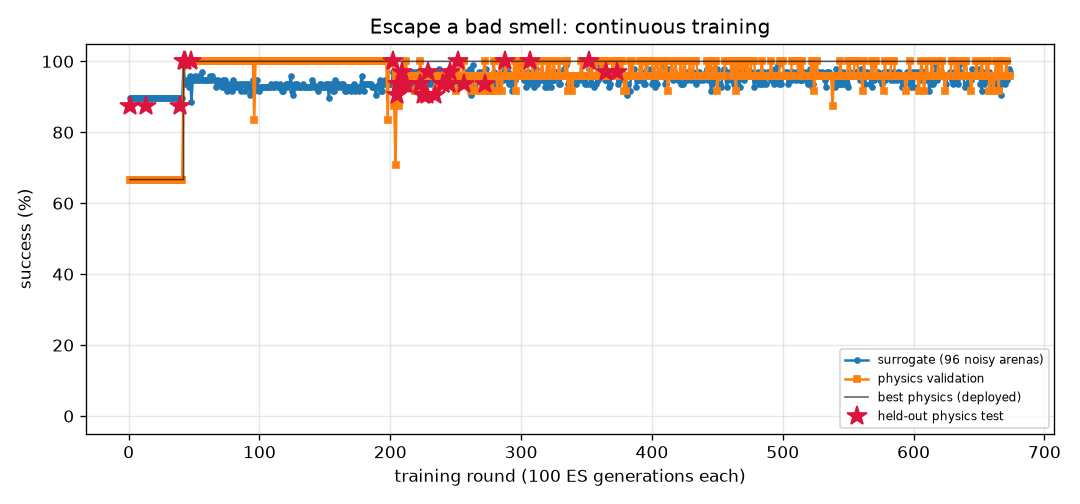
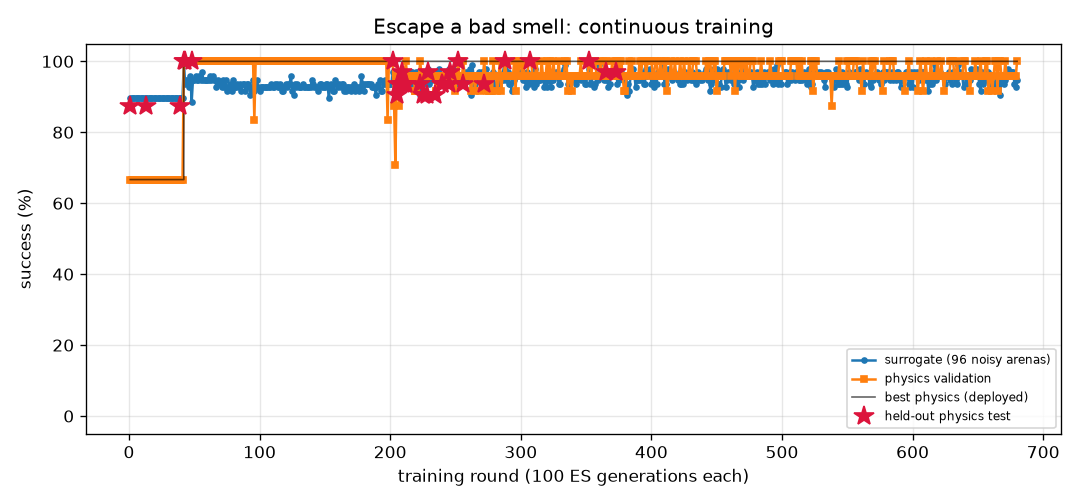
FlyLab: continuous training progress
- walk_forward: optimal, physics val 100% of 24, round 215
- turn: optimal, physics val 100% of 24, round 731
- goto: optimal, physics val 100% of 24, round 182
- odor_seek: optimal, physics val 100% of 24, round 158
- odor_avoid: optimal, physics val 100% of 24, round 680
- light_seek: optimal, physics val 100% of 24, round 376
- light_avoid: optimal, physics val 100% of 24, round 410

diff --git a/projects/09_flylab/training/odor_avoid/REPORT.md b/projects/09_flylab/training/odor_avoid/REPORT.md
@@ -1,14 +1,14 @@
 # Escape a bad smell (`odor_avoid`) — training report
 
-*Auto-generated by `train_brains.py`, last updated 2026-10-27T20:27:28.*
+*Auto-generated by `train_brains.py`, last updated 2026-10-28T20:11:12.*
 
 ![curve](curve.png)
 
 | | |
 |---|---|
-| rounds | 674 |
-| ES generations | 67400 |
-| physics runs | 13482 |
+| rounds | 680 |
+| ES generations | 68000 |
+| physics runs | 13626 |
 | status | **optimal** |
 | best brain | round 373: physics validation **100%** on 24 arenas, surrogate 97% |
 | held-out physics test | **97%** on 32 unseen arenas (95% CI 84%-99%) (errors: [62.0, 57.4, 62.6, 61.9, 59.0, 61.6, 56.5, 60.7, 31.7, 60.9, 63.1, 57.1, 61.1, 62.1, 61.5, 60.2, 62.2, 55.2, 62.1, 54.2, 61.3, 62.0, 58.0, 61.9, 59.8, 56.5, 56.3, 56.4, 56.3, 57.7, 61.9, 32.4]) |
@@ -17,12 +17,6 @@ Physics error per arena: mm gained away from source (> 6 without first approachi
 
 | round | level | gens | sigma | surrogate | physics val | val errors | test | note |
 |---:|---:|---:|---:|---:|---:|---|---:|---|
-| 635 | 3 | 63500 | 0.028 | 99% | 96% | [60.4, 58.6, 56.5, 57.1, 61.0, 61.5, 61.3, 60.5, 61.0, 61.3, 61.4, 61.5, 52.4, 54.0, 17.4, 59.4, 61.4, 60.8, 49.6, 59.2, 61.5, 61.6, 60.3, 61.5] |  |  |
-| 636 | 3 | 63600 | 0.025 | 97% | 96% | [61.5, 55.7, 56.5, 59.9, 61.6, 60.8, 61.6, 44.1, 61.4, 46.4, 53.6, 62.0, 51.4, 56.3, 41.5, 61.6, 62.1, 61.5, 54.3, 55.4, 61.5, 42.4, 59.8, 39.1] |  |  |
-| 637 | 3 | 63700 | 0.026 | 96% | 96% | [61.9, 60.8, 55.8, 60.7, 58.7, 61.7, 61.9, 61.4, 61.9, 61.4, 41.2, 61.5, 49.5, 54.7, 30.4, 58.9, 61.3, 60.7, 50.6, 59.1, 61.3, 61.9, 61.0, 62.5] |  | restart from best |
-| 638 | 3 | 63800 | 0.026 | 96% | 96% | [62.6, 61.5, 55.2, 61.8, 61.6, 61.8, 61.3, 62.4, 61.4, 44.4, 58.1, 61.4, 50.1, 56.2, 29.9, 60.4, 61.2, 59.7, 53.2, 61.1, 61.5, 62.1, 61.5, 63.3] |  |  |
-| 639 | 3 | 63900 | 0.026 | 93% | 100% | [61.8, 57.5, 55.8, 57.3, 38.8, 44.8, 61.0, 38.8, 61.6, 47.4, 26.1, 61.3, 48.6, 55.1, 28.4, 58.9, 60.9, 36.2, 52.7, 59.1, 61.1, 37.9, 59.3, 61.3] |  |  |
-| 640 | 3 | 64000 | 0.028 | 94% | 100% | [61.2, 57.6, 56.1, 57.9, 59.9, 60.1, 60.5, 58.3, 60.5, 38.3, 27.9, 61.0, 50.8, 55.8, 41.7, 57.8, 61.1, 58.9, 52.7, 53.8, 60.8, 57.5, 58.4, 59.6] |  |  |
 | 641 | 3 | 64100 | 0.028 | 94% | 96% | [60.8, 59.8, 55.5, 60.0, 59.7, 60.0, 60.6, 47.2, 61.0, 22.2, 4.4, 60.7, 53.0, 55.7, 29.8, 49.0, 60.9, 60.1, 54.1, 59.8, 60.9, 31.8, 60.2, 59.9] |  | restart from best |
 | 642 | 3 | 64200 | 0.026 | 95% | 96% | [62.9, 58.9, 56.5, 61.0, 61.4, 62.0, 61.2, 57.9, 61.4, 47.4, 61.3, 61.8, 52.3, 56.2, 37.6, 60.0, 62.3, 62.0, 55.2, 56.9, 62.2, 55.1, 59.6, 49.1] |  |  |
 | 643 | 3 | 64300 | 0.027 | 95% | 96% | [62.1, 55.2, 56.4, 57.7, 61.7, 60.3, 61.1, 38.1, 59.4, 57.3, 61.6, 60.8, 54.2, 57.3, 37.5, 61.2, 61.2, 60.5, 54.9, 56.4, 61.1, 59.7, 57.2, 28.9] |  |  |
@@ -57,3 +51,9 @@ Physics error per arena: mm gained away from source (> 6 without first approachi
 | 672 | 3 | 67200 | 0.027 | 96% | 96% | [61.5, 55.5, 56.1, 59.1, 61.5, 61.4, 60.7, 40.2, 61.1, 59.5, 60.7, 61.3, 51.8, 57.3, 41.6, 60.9, 61.3, 59.8, 54.4, 55.8, 60.6, 60.6, 60.8, 51.8] |  |  |
 | 673 | 3 | 67300 | 0.026 | 98% | 96% | [62.2, 57.7, 55.8, 57.6, 61.5, 62.1, 61.3, 55.7, 60.6, 56.1, 61.7, 62.2, 54.6, 55.6, 41.6, 61.1, 61.6, 61.7, 55.4, 58.9, 61.7, 60.5, 55.3, 58.7] |  | restart from best |
 | 674 | 3 | 67400 | 0.026 | 97% | 96% | [61.4, 59.5, 55.6, 59.5, 61.6, 37.0, 62.0, 13.6, 61.9, 47.5, 60.8, 61.9, 54.4, 56.3, 43.3, 61.2, 61.5, 61.5, 54.5, 56.2, 62.0, 25.6, 59.4, 52.2] |  |  |
+| 675 | 3 | 67500 | 0.026 | 97% | 96% | [60.3, 58.2, 55.9, 59.5, 60.8, 28.7, 61.1, 2.8, 60.8, 26.5, 34.1, 60.6, 51.9, 56.5, 40.0, 25.2, 61.2, 48.3, 53.7, 58.9, 61.2, 11.8, 59.9, 22.1] |  |  |
+| 676 | 3 | 67600 | 0.026 | 97% | 96% | [61.4, 60.2, 56.0, 60.4, 62.1, 62.2, 61.8, 56.7, 61.6, 61.6, 61.4, 61.3, 54.2, 55.4, 41.6, 60.8, 61.6, 60.2, 54.9, 59.4, 62.0, 62.2, 59.8, 50.7] |  |  |
+| 677 | 3 | 67700 | 0.026 | 97% | 96% | [58.7, 54.8, 53.9, 54.1, 59.6, 59.1, 57.7, 55.2, 56.9, 56.5, 57.9, 58.8, 48.9, 53.6, 42.6, 57.4, 59.3, 55.9, 51.6, 51.6, 59.0, 56.9, 54.2, 56.6] |  | restart from best |
+| 678 | 3 | 67800 | 0.026 | 94% | 96% | [63.1, 56.2, 56.2, 58.3, 62.7, 62.2, 61.7, 62.3, 60.6, 61.7, 62.5, 62.0, 55.3, 56.5, 51.9, 63.1, 62.5, 62.8, 55.4, 56.9, 62.4, 61.4, 58.9, 62.1] |  |  |
+| 679 | 3 | 67900 | 0.028 | 93% | 96% | [61.5, 60.2, 55.4, 60.7, 60.9, 61.0, 60.5, 50.3, 61.8, 56.6, 50.8, 61.4, 53.5, 56.5, 36.7, 61.8, 62.0, 58.9, 54.6, 59.0, 61.3, 62.1, 59.6, 62.2] |  |  |
+| 680 | 3 | 68000 | 0.028 | 95% | 100% | [62.0, 60.7, 55.9, 60.1, 60.6, 61.5, 61.8, 51.2, 61.5, 59.8, 61.1, 62.2, 54.5, 55.9, 44.8, 61.4, 62.2, 61.5, 55.4, 59.7, 62.1, 60.4, 56.9, 44.5] |  |  |

diff --git a/projects/09_flylab/training/light_avoid/REPORT.md b/projects/09_flylab/training/light_avoid/REPORT.md
@@ -1,14 +1,14 @@
 # Hide from light (`light_avoid`) — training report
 
-*Auto-generated by `train_brains.py`, last updated 2026-10-27T21:30:50.*
+*Auto-generated by `train_brains.py`, last updated 2026-10-28T20:09:10.*
 
 ![curve](curve.png)
 
 | | |
 |---|---|
-| rounds | 405 |
-| ES generations | 40500 |
-| physics runs | 9992 |
+| rounds | 410 |
+| ES generations | 41000 |
+| physics runs | 10112 |
 | status | **optimal** |
 | best brain | round 159: physics validation **100%** on 24 arenas, surrogate 100% |
 | held-out physics test | **100%** on 32 unseen arenas (95% CI 89%-100%) (errors: [14.4, 56.1, 58.0, 57.9, 57.5, 14.0, 14.4, 56.6, 56.8, 13.3, 14.1, 56.6, 57.6, 13.1, 57.3, 55.9, 57.2, 55.0, 55.2, 53.9, 55.2, 12.4, 53.8, 53.7, 14.1, 13.7, 55.0, 57.8, 56.2, 13.1, 52.8, 56.5]) |
@@ -17,11 +17,6 @@ Physics error per arena: mm gained away from source (> 6 without first approachi
 
 | round | level | gens | sigma | surrogate | physics val | val errors | test | note |
 |---:|---:|---:|---:|---:|---:|---|---:|---|
-| 366 | 3 | 36600 | 0.024 | 100% | 100% | [55.9, 60.2, 59.6, 56.4, 60.9, 56.0, 58.3, 14.5, 57.0, 13.4, 59.7, 60.8, 14.4, 59.0, 59.9, 55.3, 14.2, 61.1, 60.3, 14.4, 54.1, 59.2, 57.8, 60.4] |  |  |
-| 367 | 3 | 36700 | 0.024 | 100% | 100% | [57.7, 62.0, 61.6, 58.5, 61.8, 58.7, 60.1, 14.5, 57.8, 13.4, 60.8, 61.8, 14.4, 59.8, 61.8, 56.9, 14.2, 62.3, 62.2, 14.4, 58.7, 60.8, 60.1, 61.1] |  | restart from best |
-| 368 | 3 | 36800 | 0.024 | 100% | 100% | [40.2, 42.0, 41.9, 41.8, 44.8, 40.9, 39.4, 14.5, 41.9, 13.2, 43.0, 45.4, 14.4, 44.1, 41.9, 40.0, 14.2, 45.1, 41.6, 14.4, 40.9, 43.1, 38.9, 45.3] |  |  |
-| 369 | 3 | 36900 | 0.024 | 100% | 100% | [41.3, 42.7, 41.9, 42.0, 45.9, 41.6, 40.3, 14.5, 40.1, 13.2, 44.0, 45.9, 14.4, 45.5, 42.2, 43.5, 14.2, 45.7, 42.8, 14.4, 37.5, 44.2, 39.7, 46.1] |  |  |
-| 370 | 3 | 37000 | 0.024 | 100% | 100% | [37.6, 37.5, 37.3, 37.9, 41.2, 37.8, 34.2, 14.5, 33.8, 13.4, 37.4, 41.0, 14.4, 38.4, 37.2, 38.5, 14.2, 40.8, 37.9, 14.4, 36.6, 38.3, 34.5, 41.7] |  |  |
 | 371 | 3 | 37100 | 0.024 | 100% | 100% | [30.1, 31.1, 29.8, 31.5, 31.1, 31.1, 27.6, 14.5, 30.3, 13.2, 29.7, 29.9, 14.3, 30.9, 29.9, 31.0, 14.2, 30.6, 29.2, 14.4, 32.5, 29.7, 29.2, 30.5] |  | restart from best |
 | 372 | 3 | 37200 | 0.024 | 100% | 100% | [43.0, 47.2, 47.2, 43.4, 43.9, 44.8, 46.7, 14.5, 36.5, 13.5, 43.0, 43.5, 14.4, 43.5, 47.1, 38.0, 14.2, 44.5, 47.3, 14.4, 37.2, 41.7, 46.1, 42.7] |  |  |
 | 373 | 3 | 37300 | 0.024 | 100% | 100% | [57.4, 60.7, 60.6, 57.9, 58.8, 57.9, 59.6, 14.5, 56.6, 13.3, 58.4, 58.5, 14.4, 56.9, 60.7, 56.1, 14.2, 59.5, 60.6, 14.4, 55.7, 56.3, 59.4, 57.4] |  |  |
@@ -57,3 +52,8 @@ Physics error per arena: mm gained away from source (> 6 without first approachi
 | 403 | 3 | 40300 | 0.024 | 100% | 100% | [58.0, 60.8, 60.7, 58.4, 59.2, 58.6, 59.8, 14.5, 56.8, 13.5, 58.7, 58.9, 14.4, 60.0, 60.7, 58.3, 14.2, 60.2, 61.0, 14.4, 57.3, 59.3, 59.8, 58.1] |  | restart from best |
 | 404 | 3 | 40400 | 0.024 | 100% | 100% | [45.3, 46.4, 45.8, 46.5, 49.6, 46.0, 44.0, 14.5, 49.4, 13.2, 49.7, 49.9, 14.4, 49.7, 45.7, 45.8, 14.2, 49.5, 47.0, 14.4, 42.1, 50.6, 44.0, 50.0] |  |  |
 | 405 | 3 | 40500 | 0.024 | 100% | 100% | [58.1, 62.1, 61.8, 58.8, 62.0, 58.7, 60.5, 14.5, 57.2, 13.4, 61.2, 61.9, 14.4, 58.9, 62.2, 57.8, 14.2, 62.5, 62.6, 14.4, 59.4, 61.3, 60.3, 61.2] |  |  |
+| 406 | 3 | 40600 | 0.024 | 100% | 100% | [53.5, 58.6, 58.3, 55.0, 59.4, 55.2, 56.6, 14.5, 52.2, 13.4, 58.4, 59.4, 14.4, 57.1, 58.5, 53.6, 14.2, 60.0, 58.8, 14.4, 53.2, 58.1, 56.3, 59.0] |  |  |
+| 407 | 3 | 40700 | 0.024 | 100% | 100% | [51.6, 55.5, 55.0, 53.3, 56.8, 52.9, 53.0, 14.5, 51.9, 13.4, 56.8, 56.8, 14.4, 54.9, 54.6, 51.8, 14.2, 57.1, 55.2, 14.4, 50.3, 56.8, 52.8, 56.5] |  | restart from best |
+| 408 | 3 | 40800 | 0.024 | 100% | 100% | [55.3, 59.4, 59.1, 57.1, 59.2, 55.9, 57.7, 14.5, 53.2, 13.5, 58.5, 59.0, 14.4, 56.8, 59.3, 54.7, 14.2, 59.6, 59.6, 14.4, 55.8, 58.8, 57.6, 58.4] |  |  |
+| 409 | 3 | 40900 | 0.024 | 100% | 100% | [32.1, 31.4, 30.1, 33.5, 33.6, 33.2, 29.6, 14.5, 33.6, 13.4, 34.1, 33.1, 14.4, 35.0, 30.6, 34.5, 14.2, 34.9, 30.6, 14.4, 23.3, 33.5, 27.7, 33.9] |  |  |
+| 410 | 3 | 41000 | 0.024 | 100% | 100% | [53.9, 56.8, 56.9, 53.9, 53.3, 53.2, 56.8, 14.5, 42.6, 13.4, 49.8, 53.2, 14.4, 51.1, 56.9, 53.9, 14.2, 54.6, 56.4, 14.4, 52.1, 52.4, 56.3, 52.1] |  |  |

diff --git a/projects/09_flylab/training/TRAINING.md b/projects/09_flylab/training/TRAINING.md
@@ -1,6 +1,6 @@
 # FlyLab brains — continuous training log
 
-*Auto-generated by `train_brains.py`, last updated 2026-10-28T19:27:12.*
+*Auto-generated by `train_brains.py`, last updated 2026-10-28T20:11:12.*
 
 Every skill has its own brain and its own training process: surrogate ES rounds, physics validation in MuJoCo, keep-the-best selection, and a held-out physics test that is never used for selection. See each skill's report for its full round-by-round history. Mastery is progressive: passing a level (100% physics validation, >=95% surrogate) doubles the validation and test arena sets; a brain is **optimal** once it holds up at level 3 (>=95% of 24 validation arenas) AND scores >=90% on the 32 held-out test arenas. Test columns show 95% Wilson confidence intervals.
 
@@ -10,6 +10,6 @@ Every skill has its own brain and its own training process: surrogate ES rounds,
 | [Turn in place](turn/REPORT.md) | 731 | 73100 | 17790 | 100% | 100% of 24 | 97% of 32 (CI 84-99%) | **optimal** |
 | [Go to a location](goto/REPORT.md) | 182 | 18200 | 4318 | 100% | 100% of 24 | 100% of 32 (CI 89-100%) | **optimal** |
 | [Find food by smell](odor_seek/REPORT.md) | 158 | 15800 | 3222 | 100% | 100% of 24 | 100% of 32 (CI 89-100%) | **optimal** |
-| [Escape a bad smell](odor_avoid/REPORT.md) | 674 | 67400 | 13482 | 97% | 100% of 24 | 97% of 32 (CI 84-99%) | **optimal** |
+| [Escape a bad smell](odor_avoid/REPORT.md) | 680 | 68000 | 13626 | 97% | 100% of 24 | 97% of 32 (CI 84-99%) | **optimal** |
 | [Walk toward light](light_seek/REPORT.md) | 376 | 37600 | 5904 | 100% | 100% of 24 | 100% of 32 (CI 89-100%) | **optimal** |
-| [Hide from light](light_avoid/REPORT.md) | 405 | 40500 | 9992 | 100% | 100% of 24 | 100% of 32 (CI 89-100%) | **optimal** |
+| [Hide from light](light_avoid/REPORT.md) | 410 | 41000 | 10112 | 100% | 100% of 24 | 100% of 32 (CI 89-100%) | **optimal** |
